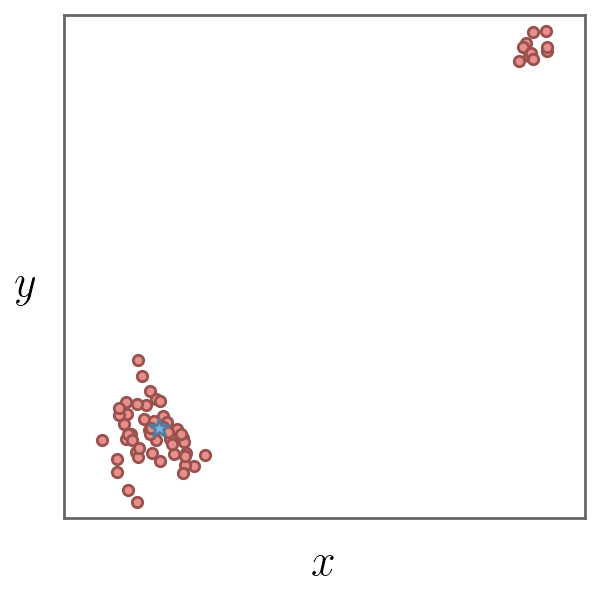
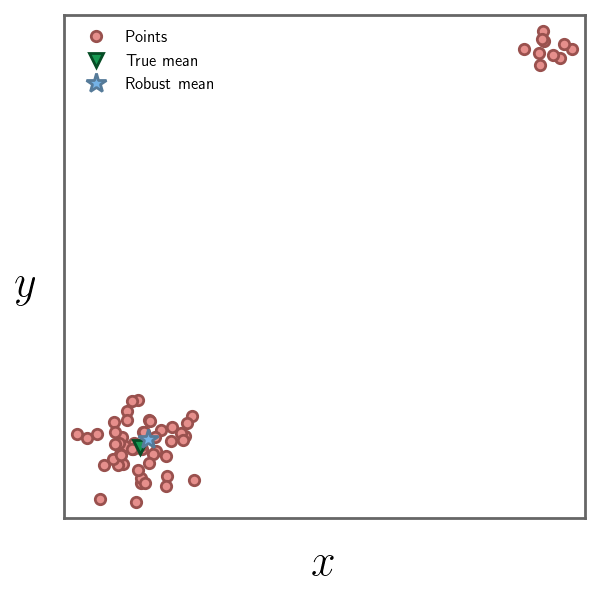
New article on the average

diff --git a/blog/average_pt2/index.html b/blog/average_pt2/index.html
@@ -4,10 +4,10 @@
   <head>
     <meta charset="utf-8">
     <title>
-       On the average pt.2
+       On the average pt.2 - Robust average
       
     </title>
-    <link rel="stylesheet" href="http://www.cs.princeton.edu/~mhalber//assets/style.css">
+    <link rel="stylesheet" href="https://mhalber.github.io//assets/style.css">
     <link href="https://fonts.googleapis.com/css?family=Lato:400,400i,700" rel="stylesheet">
     <link href="https://fonts.googleapis.com/css?family=Open+Sans:400,400i,700" rel="stylesheet">
     <script src="https://use.fontawesome.com/df431d87ca.js"></script>
@@ -34,64 +34,68 @@
         </h1>
       <a href="https://twitter.com/maciejhalber"><i class="fa top_nav fa-twitter fa-lg" aria-hidden="true"></i></a>
       <a href="https://github.com/mhalber"><i class="fa top_nav fa-github fa-lg" aria-hidden="true"></i></a>
-      <a href="http://www.cs.princeton.edu/~mhalber//blog/"><i class="fa top_nav fa-pencil fa-lg" aria.z/z-hidden="true"></i></a>
-      <a href="http://www.cs.princeton.edu/~mhalber/"><i class="fa top_nav fa-book fa-lg" aria-hidden="true"></i></a>
+      <a href="https://mhalber.github.io//blog/"><i class="fa top_nav fa-pencil fa-lg" aria.z/z-hidden="true"></i></a>
+      <a href="https://mhalber.github.io/"><i class="fa top_nav fa-book fa-lg" aria-hidden="true"></i></a>
     </div></div>
 
-<h1>On the average pt.2</h1>
-<p>In the previous post we looked at the definition of an average and we showed that the mean is a quantity that minimizes the sum of squared distances. Calculating the mean is extremely easy, as we have a closed form formula to do so.</p>
-<p>However, there is no silver bullet. The mean suffers from its sensitivity to outliers. Consider the dataset below - 
-we have data that is mostly concentrated around a single point, with few outliers concentrated at another position.</p>
-<p><img src="empirical_mean.png#center" alt=""></p>
-<p>Ideally, we would like our estimate (calculated mean in the figure above) to be close to the true mean, and somehow ignore the outlier points. As you might imagine, outlier data points are common when dealing with real-world data. As such, people have developed a whole myriad of techniques to deal with such situations. One of these techniques involves the use of &ldquo;robust&rdquo; error function, i.e. functions that are somewhat robust to the outliers.</p>
-<p>To understand the intuition behind the robust functions, let us start by looking at the sum of squares loss function we worked through last time (for clarity, and without the loss of generality, we can omit the $\frac{1}{2}$ factor):</p>
+<h1>On the average pt.2 - Robust average</h1>
+<p>In the <a href="https://mhalber.github.io/blog/average_pt1/">previous post</a> we derived the formula for the average and we showed that the average is a quantity that minimizes the sum of squared distances. Calculating the mean is extremely easy, as we have a closed form formula to do so.</p>
+<p>However, as you might expect, there is no silver bullet. While the arithmetic mean has many useful properties, one if its biggest drawbacks is its sensitivity to outliers. Consider the dataset below - we have data consisting of a number of points that is mostly concentrated around a single position, with few outliers concentrated at another location:</p>
+<p><img src="calculated_mean.png#center" alt=""></p>
+<p>Ideally, we would like our estimate (calculated mean in the figure above) to be close to the true mean. To achieve this our estimation procedure should somehow be able to ignore the outlier points. Luckily, since outlier data points are common when dealing with real-world data, people have developed a whole myriad of techniques to deal with such situations. One of these techniques involves the use of &ldquo;robust&rdquo; error function, that is error functions that are somewhat robust to the outliers.</p>
+<p>To understand the intuition behind the robust error (or loss) functions, let us start by looking at the sum of squares function we analyzed in the <a href="https://mhalber.github.io/blog/average_pt1/">part 1</a> (for clarity, and without the loss of generality, we can omit the $\frac{1}{2}$ factor):</p>
 <p>$$
 \DeclareMathOperator*{\argmin}{arg\,min}
-\argmin_{\bar{a}}\mathcal{L}(\bar{a}, \mathcal{A}) = \argmin_{\bar{a}}\sum_i^n||\bar{a} - a_i||_2^2 \nonumber
+\argmin_{\bar{a}}\mathcal{L}(\bar{a}, \mathcal{A}) = \argmin_{\bar{a}}\sum_i^n\|\bar{a} - a_i\|_2^2 \nonumber
 $$</p>
-<p>Let&rsquo;s rewrite the above equation with $\epsilon_i = ||\bar{a} - a_i||_2$:</p>
+<p>Let&rsquo;s rewrite the above equation with $\epsilon_i = \|\bar{a} - a_i\|_2$:</p>
 <p>$$
 \DeclareMathOperator*{\argmin}{arg\,min}
 \argmin_{\bar{a}}\mathcal{L}(\bar{a}, \mathcal{A}) = \argmin_{\bar{a}}\sum_i^n\epsilon_i^2 \nonumber
 $$</p>
-<p>We refer to the $\epsilon_i$ as the residual. By writing our loss function in the above form, it hopefully becomes clear that the squaring the residuals was just a choice that we made, as the function can also be written as:</p>
+<p>We refer to the $\epsilon_i$ as the residual. By writing our loss function in the above form, it hopefully becomes clear that the squaring of the residual was just a choice that we made, as the function can be equivalently written as:</p>
 <p>$$
 \DeclareMathOperator*{\argmin}{arg\,min}
 \argmin_{\bar{a}}\mathcal{L}(\bar{a}, \mathcal{A}) = \argmin_{\bar{a}}\sum_i^n\rho(\epsilon_i) \nonumber \text{,}
 $$
-with $\rho(x) = x^2$. Question then arises, what happens if we replace the square function with some other function? An example of a robust function is a Pseudo-Huber loss, written as $\rho_{huber}(x, \sigma) = \sigma^2\left(\sqrt{1 + (\frac{x}{\sigma})^2} - 1\right)$. The formula might look a little intimidating, however the plot of Pseudo-Huber function reveals that it is simply a function that approximates quadratic ($x^2$) near the origin and an absolute value linear function everywhere else. The parameter $\sigma$ controls how quickly does this function grows (i.e. slope of the linear part).</p>
+with $\rho(x) = x^2$. Immediately, a question emerges: what happens if we replace the square function with some other function? An example of a robust error function is the Pseudo-Huber loss, defined as $\rho_{huber}(x, \sigma) = \sigma^2\left(\sqrt{1 + (\frac{x}{\sigma})^2} - 1\right)$. The formula might look a little intimidating, however the plot of Pseudo-Huber function reveals that it is simply a function that approximates quadratic ($x^2$) near the origin and underestimates absolute value linear function everywhere else. The parameter $\sigma$ controls how quickly does this function grows (i.e. slope of the linear part).</p>
 <p><img src="functions.png#center" alt=""></p>
-<p>To find the minimum of that loss, let us follow the usual recipie of taking the derivative of a function with respect to the parameters and setting it equal to zero:</p>
+<p>To find the minimum of the Pseudo-Huber based loss function, let us follow the usual recipe of taking the derivative of a function with respect to the parameters and setting it equal to zero:</p>
 <p>$$
 \begin{align}
 \frac{\partial L(\bar{a}, \mathcal{A})}{\partial \bar{x}} &amp;= 0 \nonumber \\\<br>
 \frac{\partial \sum_i^n\rho_{huber}(\epsilon_i, \sigma)}{\partial \bar{x}} &amp;= 0 \nonumber \\\<br>
-\sum_i^n \frac{\partial \rho_{huber}(\epsilon_i, \sigma)}{\partial \bar{x}} &amp;= 0 \nonumber \\\<br>
-\sum_i^n \frac{\partial \rho_{huber}(\epsilon_i, \sigma)}{\partial \epsilon_i} \frac{\partial \epsilon_i}{\partial \bar{x}} &amp;= 0 \nonumber
+\sum_i^n \frac{\partial \rho_{huber}(\epsilon_i, \sigma)}{\partial \bar{x}} &amp;= 0 &amp;\text{ // Sum Rule} \nonumber  \\\<br>
+\sum_i^n \frac{\partial \rho_{huber}(\epsilon_i, \sigma)}{\partial \epsilon_i} \frac{\partial \epsilon_i}{\partial \bar{x}} &amp;= 0 &amp;\text{ // Chain Rule} \nonumber
 \end{align}
 $$</p>
-<p>As we have shown in the part 1:
+<p>As in part 1 we have split out derivative into two terms. Previously, we have shown in that:
 $$
 \frac{\partial \epsilon_i}{\partial \bar{x}} = \frac{\bar{x}-x_i}{\epsilon_i}
 $$</p>
-<p>What is left to do is to calculate the $\frac{\partial \rho_{huber}(\epsilon_i, \sigma)}{\partial \epsilon_i}$:</p>
+<p>What is then left to do is to calculate the $\frac{\partial \rho_{huber}(\epsilon_i, \sigma)}{\partial \epsilon_i}$:</p>
 <p>$$
 \begin{align*}
 \frac{\partial \rho_{huber}(\epsilon_i, \sigma)}{\partial \epsilon_i} &amp;= \frac{ \partial\left(\sigma^2\left(\sqrt{1 + (\frac{\epsilon_i}{\sigma})^2} - 1\right)\right)}{\partial \epsilon_i} \\\<br>
-&amp;= \frac{ \partial\left(\sigma^2\left(\sqrt{1 + (\frac{\epsilon_i}{\sigma})^2}\right)\right)}{\partial \epsilon_i} \\\<br>
+&amp;= \frac{ \partial\left(\sigma^2\left(\sqrt{1 + (\frac{\epsilon_i}{\sigma})^2}\right)\right)}{\partial \epsilon_i} &amp;\text{ // Sum rule, }\sigma^2\text{ does not depend on }\bar{x}\\\<br>
 &amp;= \sigma^2\frac{ \partial\left(\sqrt{1 + (\frac{\epsilon_i}{\sigma})^2}\right)}{\partial \epsilon_i} \\\<br>
-&amp;= \sigma^2\frac{ \partial\sqrt{t}}{\partial t}\frac{\partial t}{\partial \epsilon_i} \\\<br>
-&amp;= \frac{1}{2}\sigma^2t^{-\frac{1}{2}}\frac{\partial (1 + (\frac{\epsilon_i}{\sigma})^2)}{\partial \epsilon_i} \\\<br>
-&amp;= \frac{1}{2}\sigma^2t^{-\frac{1}{2}}\frac{\partial (\frac{\epsilon_i}{\sigma})^2}{\partial \epsilon_i} \\\<br>
+&amp;= \sigma^2\frac{ \partial\sqrt{t}}{\partial t}\frac{\partial t}{\partial \epsilon_i} &amp;\text{ // }t = 1 + \left(\frac{\epsilon_i}{\sigma}\right)^2 \\\<br>
+&amp;= \frac{1}{2}\sigma^2t^{-\frac{1}{2}}\frac{\partial (1 + (\frac{\epsilon_i}{\sigma})^2)}{\partial \epsilon_i} &amp;\text{ // Power Rule}\\\<br>
+&amp;= \frac{1}{2}\sigma^2t^{-\frac{1}{2}}\frac{\partial (\frac{\epsilon_i}{\sigma})^2}{\partial \epsilon_i} &amp;\text{ // Sum Rule, } 1\text{ does not depend on }\epsilon_i\\\<br>
 &amp;= \frac{1}{2}\sigma^2t^{-\frac{1}{2}}\frac{2\epsilon_i}{\sigma^2} \\\<br>
 &amp;= \frac{\epsilon_i}{\sqrt{1 + (\frac{\epsilon_i}{\sigma})^2}}
 \end{align*}
 $$</p>
 <p>Putting the two together back into the derivative of the loss function:</p>
 <p>$$
-\frac{\partial L(\bar{a}, \mathcal{A})}{\partial \bar{x}} = \sum_i^n\frac{\epsilon_i}{\sqrt{1 + (\frac{\epsilon_i}{\sigma})^2}}\frac{\bar{x}-x_i}{\epsilon_i} = \sum_i^n\frac{1}{\sqrt{1 + (\frac{\epsilon_i}{\sigma})^2}}(\bar{x}-x_i) = 0
+\begin{align*}
+\frac{\partial L(\bar{a}, \mathcal{A})}{\partial \bar{x}} &amp;= \sum_i^n \frac{\partial \rho_{huber}(\epsilon_i, \sigma)}{\partial \epsilon_i} \frac{\partial \epsilon_i}{\partial \bar{x}} \\\ 
+&amp;= \sum_i^n\frac{\partial \rho_{huber}(\epsilon_i, \sigma)}{\partial \epsilon_i}\frac{1}{\epsilon_i}\left(\bar{x}-x_i\right) \\\<br>
+&amp;= \sum_i^n\frac{\epsilon_i}{\sqrt{1 + (\frac{\epsilon_i}{\sigma})^2}}\frac{1}{\epsilon_i}\left(\bar{x}-x_i\right) \\\<br>
+&amp;= \sum_i^n\frac{1}{\sqrt{1 + (\frac{\epsilon_i}{\sigma})^2}}(\bar{x}-x_i) = 0
+\end{align*}
 $$</p>
-<p>Sadly, unlike when $\rho(x) = x^2$, the above formula still contains $\epsilon_i$. As such we can no longer isolate the value for $\bar{a}$ in a closed form. Instead, to find the robust estimate of the mean, we need to use an iterative approach. In this post we will use a variant of <a href="https://en.wikipedia.org/wiki/Iteratively_reweighted_least_squares">&ldquo;Iteratively Reweighted Least Squares&rdquo; (IRLS)</a> technique. Let us write $w_i = \sqrt{1 + (\frac{\epsilon_i}{\sigma})^2}$, and let us further assume for a moment that the $\epsilon_i$ is not a function of $\bar{x}$. This means that we can keep the term $w_i$ fixed. This allows us to write the formula for the variable we are interested in:</p>
+<p>Sadly, unlike when $\rho(x) = x^2$, the above formula still contains $\epsilon_i$. As such we can no longer isolate the value for $\bar{x}$ in a closed form. Instead, to find the robust estimate of the mean, we need to use an iterative approach. In this post we will use a variant of <a href="https://en.wikipedia.org/wiki/Iteratively_reweighted_least_squares">&ldquo;Iteratively Reweighted Least Squares&rdquo; (IRLS)</a> technique. Let us write $w_i = 1/\left({\sqrt{1 + (\frac{\epsilon_i}{\sigma})^2}}\right)$, and let us further assume for a moment that the $\epsilon_i$ is not a function of $\bar{x}$. This means that we can keep the term $w_i$ fixed, which allows us to write the formula for the variable we are interested in:</p>
 <p>$$
 \begin{align}
 \sum_i^nw_i(\bar{x}-x_i) &amp;= 0 \nonumber \\\<br>
@@ -100,27 +104,43 @@ $$</p>
 \bar{x} &amp;= \frac{\sum_i^nw_ix_i}{\sum_i^nw_i}
 \end{align}
 $$</p>
-<p>As you possibly recognize, this is a formula for the weighted average! These weights will allow us to discount the outliers that have been &ldquo;skewing&rdquo; the average estimate. Obviously initially we do not know what are the weights, but we also have a formula for those - $w_i = \sqrt{1 + (\frac{\epsilon_i}{\sigma})^2}$! We can thus design an algorithm to compute both the weights and the estimate iteratively:</p>
+<p>As you likely recognize, this is the formula for the weighted average! The weights need now to be chosen to discount the outliers that have been &ldquo;skewing&rdquo; the average estimate. Obviously initially we do not know what are the weights, but we also have a formula for those - $w_i = 1/\left({\sqrt{1 + (\frac{\epsilon_i}{\sigma})^2}}\right)$! With this we can design an algorithm to compute both the weights and the estimate of the mean iteratively:</p>
 <p>$$
 \begin{align*}
 &amp; \text{set all weights }w_i\text{ to }1 \\\<br>
 &amp; \textbf{Repeat }\text{until convergence:} \\\<br>
 &amp; \text{&mdash; calculate }x^* = \frac{\sum_i^nw_ix_i}{\sum_i^nw_i} \\\ 
-&amp; \text{&mdash; calculate residuals } \epsilon_i = ||x^* - x_i||_2 \\\<br>
+&amp; \text{&mdash; calculate residuals } \epsilon_i = \|x^* - x_i\|_2 \\\<br>
 &amp; \text{&mdash; calculate weights } w_i = \frac{1}{\epsilon_i}\frac{\partial \rho(\epsilon_i)}{\partial \epsilon_i} 
 \end{align*}
 $$</p>
-<p>Note that a single iteration of the above procedure will simply give us a regular mean, i.e. $x^* = \bar{x}$.
-However, as we run the algorithm multiple times, the resulting mean estimate becomes closer to the true mean:
-<img src="robust_mean.png#center" alt=""></p>
-<p>Additionally, the above recipie is readily adjusted to support any robust function, like Tukey&rsquo;s weights, Geman-McClure, etc. A good overview of different loss functions can be found in a paper by Black and Rangarajan<sup id="fnref:1"><a href="#fn:1" class="footnote-ref" role="doc-noteref">1</a></sup>, pages 41-48.</p>
-<p>TODO: Describe why does it work, how did people come up with these functions?</p>
+<p>In the above recipe we write the general form of the $w_i$ for the IRLS framework, so that it can be adjusted to support any robust function, like Tukey&rsquo;s weights, Geman-McClure, etc. A good overview of different loss functions can be found in a paper by Black and Rangarajan<sup id="fnref:1"><a href="#fn:1" class="footnote-ref" role="doc-noteref">1</a></sup>, pages 41-48. Note that a single iteration of the above procedure will simply give us a regular mean, i.e. $x^* = \bar{x}$. However, as we run the algorithm multiple times, the resulting mean estimate is much closer to the true mean:</p>
+<!-- ![](robust_mean.png#center) -->
+<p><img src='robust_mean_000.png#center' id="image"></img></p>
+<div style="width:40%; margin: 0 auto; text-align:center;">
+<input style="width:100%" type="range" id="iter_count" name="iter_count" min="0" max="9" value="0">
+</div>
+<script>
+var slider = document.getElementById("iter_count");
+var image = document.getElementById("image");
+image.src = 'robust_mean_000.png#center';
+slider.oninput = function() {
+  image.src = 'robust_mean_00' + this.value + '.png#center';
+}
+</script> 
+<p>Before we end, it is important to underline why these function lead to discounting of the outliers. Hopefully this also clarifies how the robust functions were designed. If we consider our optimization procedure, the weights are defined as:
+$$
+w_i = \frac{1}{\epsilon_i}\frac{\partial \rho(\epsilon_i)}{\partial \epsilon_i}
+$$
+This means that the weights are proportional to the derivative of a function applied to our residuals. If we plot the derivative of the square function and Pseudo-Huber loss, it is clear to see that square function will result in high contributions from large errors, as the derivative of the square is a linear function. Conversely, with Pseudo-Huber loss we can see that large errors have a constant contribution, no matter how large the error gets.</p>
+<p><img src="derivatives.png#center" alt=""></p>
 <p>To finish this post off, note that all the techniques that are shown here generalize to robust linear regression, where the residual takes the form of:
 $$
 \epsilon_i = y_i - f(x_i),
 $$
-with linear function $f$. I should most likely write down the maths for this derivation as well, but the general reasoning is very similar.</p>
-<p>I also need to point out that all of the information in this post is well known in statistics. If you wish to find out more, I&rsquo;d recommend reading up on M-Estimators in statistics, IRLS in general. Also there is under-appreciated and somewhat now-forgotten piece of work by Michael Black and Rangarajan. Lastly, more recently Jon Barron has published a wonderful paper<sup id="fnref:2"><a href="#fn:2" class="footnote-ref" role="doc-noteref">2</a></sup> that looks at generalization of the energy functions we discuss here.</p>
+with linear function $f$. I should most likely write down the derivation for this problem as well, but the reasoning is very similar.</p>
+<p>I also need to point out that all of the information in this post is well known in statistics. If you wish to find out more, I&rsquo;d recommend reading up on M-Estimators in statistics, IRLS in general. Also there is under-appreciated and somewhat now-forgotten piece of work by Michael Black and Rangarajan. Lastly, more recently Jon Barron has published a wonderful paper<sup id="fnref:2"><a href="#fn:2" class="footnote-ref" role="doc-noteref">2</a></sup> that introduced a general robust loss function - definitely give it a read!</p>
+<p>Comments, questions? Message me on <a href="https://twitter.com/maciejhalber">twitter</a></p>
 <section class="footnotes" role="doc-endnotes">
 <hr>
 <ol>
@@ -135,13 +155,11 @@ with linear function $f$. I should most likely write down the maths for this der
 
 </br>
 
-
-
 <table class="post_nav_bar">
   <tr class="post_nav_row">
     <td class="post_nav_prev"> 
        
-        <a href=http://www.cs.princeton.edu/~mhalber/blog/ogl_gradient/>
+        <a href=https://mhalber.github.io/blog/average_pt1/>
         <span class="fa-stack fa-lg">
           <i class="fa fa-circle fa-stack-2x"></i>
           <i class="fa fa-angle-left fa-stack-1x fa-inverse"></i>
@@ -150,7 +168,7 @@ with linear function $f$. I should most likely write down the maths for this der
        
     </td>
     <td class="post_nav_home"> 
-      <a href="http://www.cs.princeton.edu/~mhalber//blog/">
+      <a href="https://mhalber.github.io//blog/">
         <span class="fa-stack fa-lg">
           <i class="fa fa-circle fa-stack-2x"></i>
           <i class="fa fa-home fa-stack-1x fa-inverse"></i>
@@ -158,13 +176,6 @@ with linear function $f$. I should most likely write down the maths for this der
       </a> 
     </td>
     <td class="post_nav_next"> 
-       
-        <a href=http://www.cs.princeton.edu/~mhalber/blog/average_pt1/>
-          <span class="fa-stack fa-lg">
-            <i class="fa fa-circle fa-stack-2x"></i>
-            <i class="fa fa-angle-right fa-stack-1x fa-inverse"></i>
-          </span>
-        </a> 
        
     </td>
   </tr>

diff --git a/blog/average_pt1/index.html b/blog/average_pt1/index.html
@@ -4,7 +4,7 @@
   <head>
     <meta charset="utf-8">
     <title>
-       On the average
+       On the average pt.1 - Definition
       
     </title>
     <link rel="stylesheet" href="https://mhalber.github.io//assets/style.css">
@@ -38,7 +38,7 @@
       <a href="https://mhalber.github.io/"><i class="fa top_nav fa-book fa-lg" aria-hidden="true"></i></a>
     </div></div>
 
-<h1>On the average</h1>
+<h1>On the average pt.1 - Definition</h1>
 <p>Most people are likely familiar with the concept of an average, as we often encouter it in our everyday lives. Questions like: how much money on <em>average</em> do I spend on groceries each week, how much time on <em>average</em> do I spend in front of computer per day, etc., are very common. An average is very simple to calculate - we take some quantities, add them together, and divide the result by the number of the quantities. In mathematical notation it is:</p>
 <p>$$
 \begin{eqnarray}
@@ -110,8 +110,6 @@ To finish off, and to add at least one figure to this post, below we show the av
 
 </br>
 
-
-
 <table class="post_nav_bar">
   <tr class="post_nav_row">
     <td class="post_nav_prev"> 
@@ -133,6 +131,13 @@ To finish off, and to add at least one figure to this post, below we show the av
       </a> 
     </td>
     <td class="post_nav_next"> 
+       
+        <a href=https://mhalber.github.io/blog/average_pt2/>
+          <span class="fa-stack fa-lg">
+            <i class="fa fa-circle fa-stack-2x"></i>
+            <i class="fa fa-angle-right fa-stack-1x fa-inverse"></i>
+          </span>
+        </a> 
        
     </td>
   </tr>

diff --git a/blog/index.html b/blog/index.html
@@ -41,7 +41,12 @@
 <ul class=posts_summary>
   
     <li class="posts_summary">
-      <a href="https://mhalber.github.io/blog/average_pt1/">On the average</a>
+      <a href="https://mhalber.github.io/blog/average_pt2/">On the average pt.2 - Robust average</a>
+      <span style="font-size:11px;float:right"><time>Jul 20, 2020</time></span>
+    </li>
+  
+    <li class="posts_summary">
+      <a href="https://mhalber.github.io/blog/average_pt1/">On the average pt.1 - Definition</a>
       <span style="font-size:11px;float:right"><time>Jul 18, 2020</time></span>
     </li>
   

diff --git a/blog/ogl_gradient/index.html b/blog/ogl_gradient/index.html
@@ -226,8 +226,6 @@ you are all set to do the <a href="http://www.iquilezles.org/www/material/nvscen
 
 </br>
 
-
-
 <table class="post_nav_bar">
   <tr class="post_nav_row">
     <td class="post_nav_prev"> 
